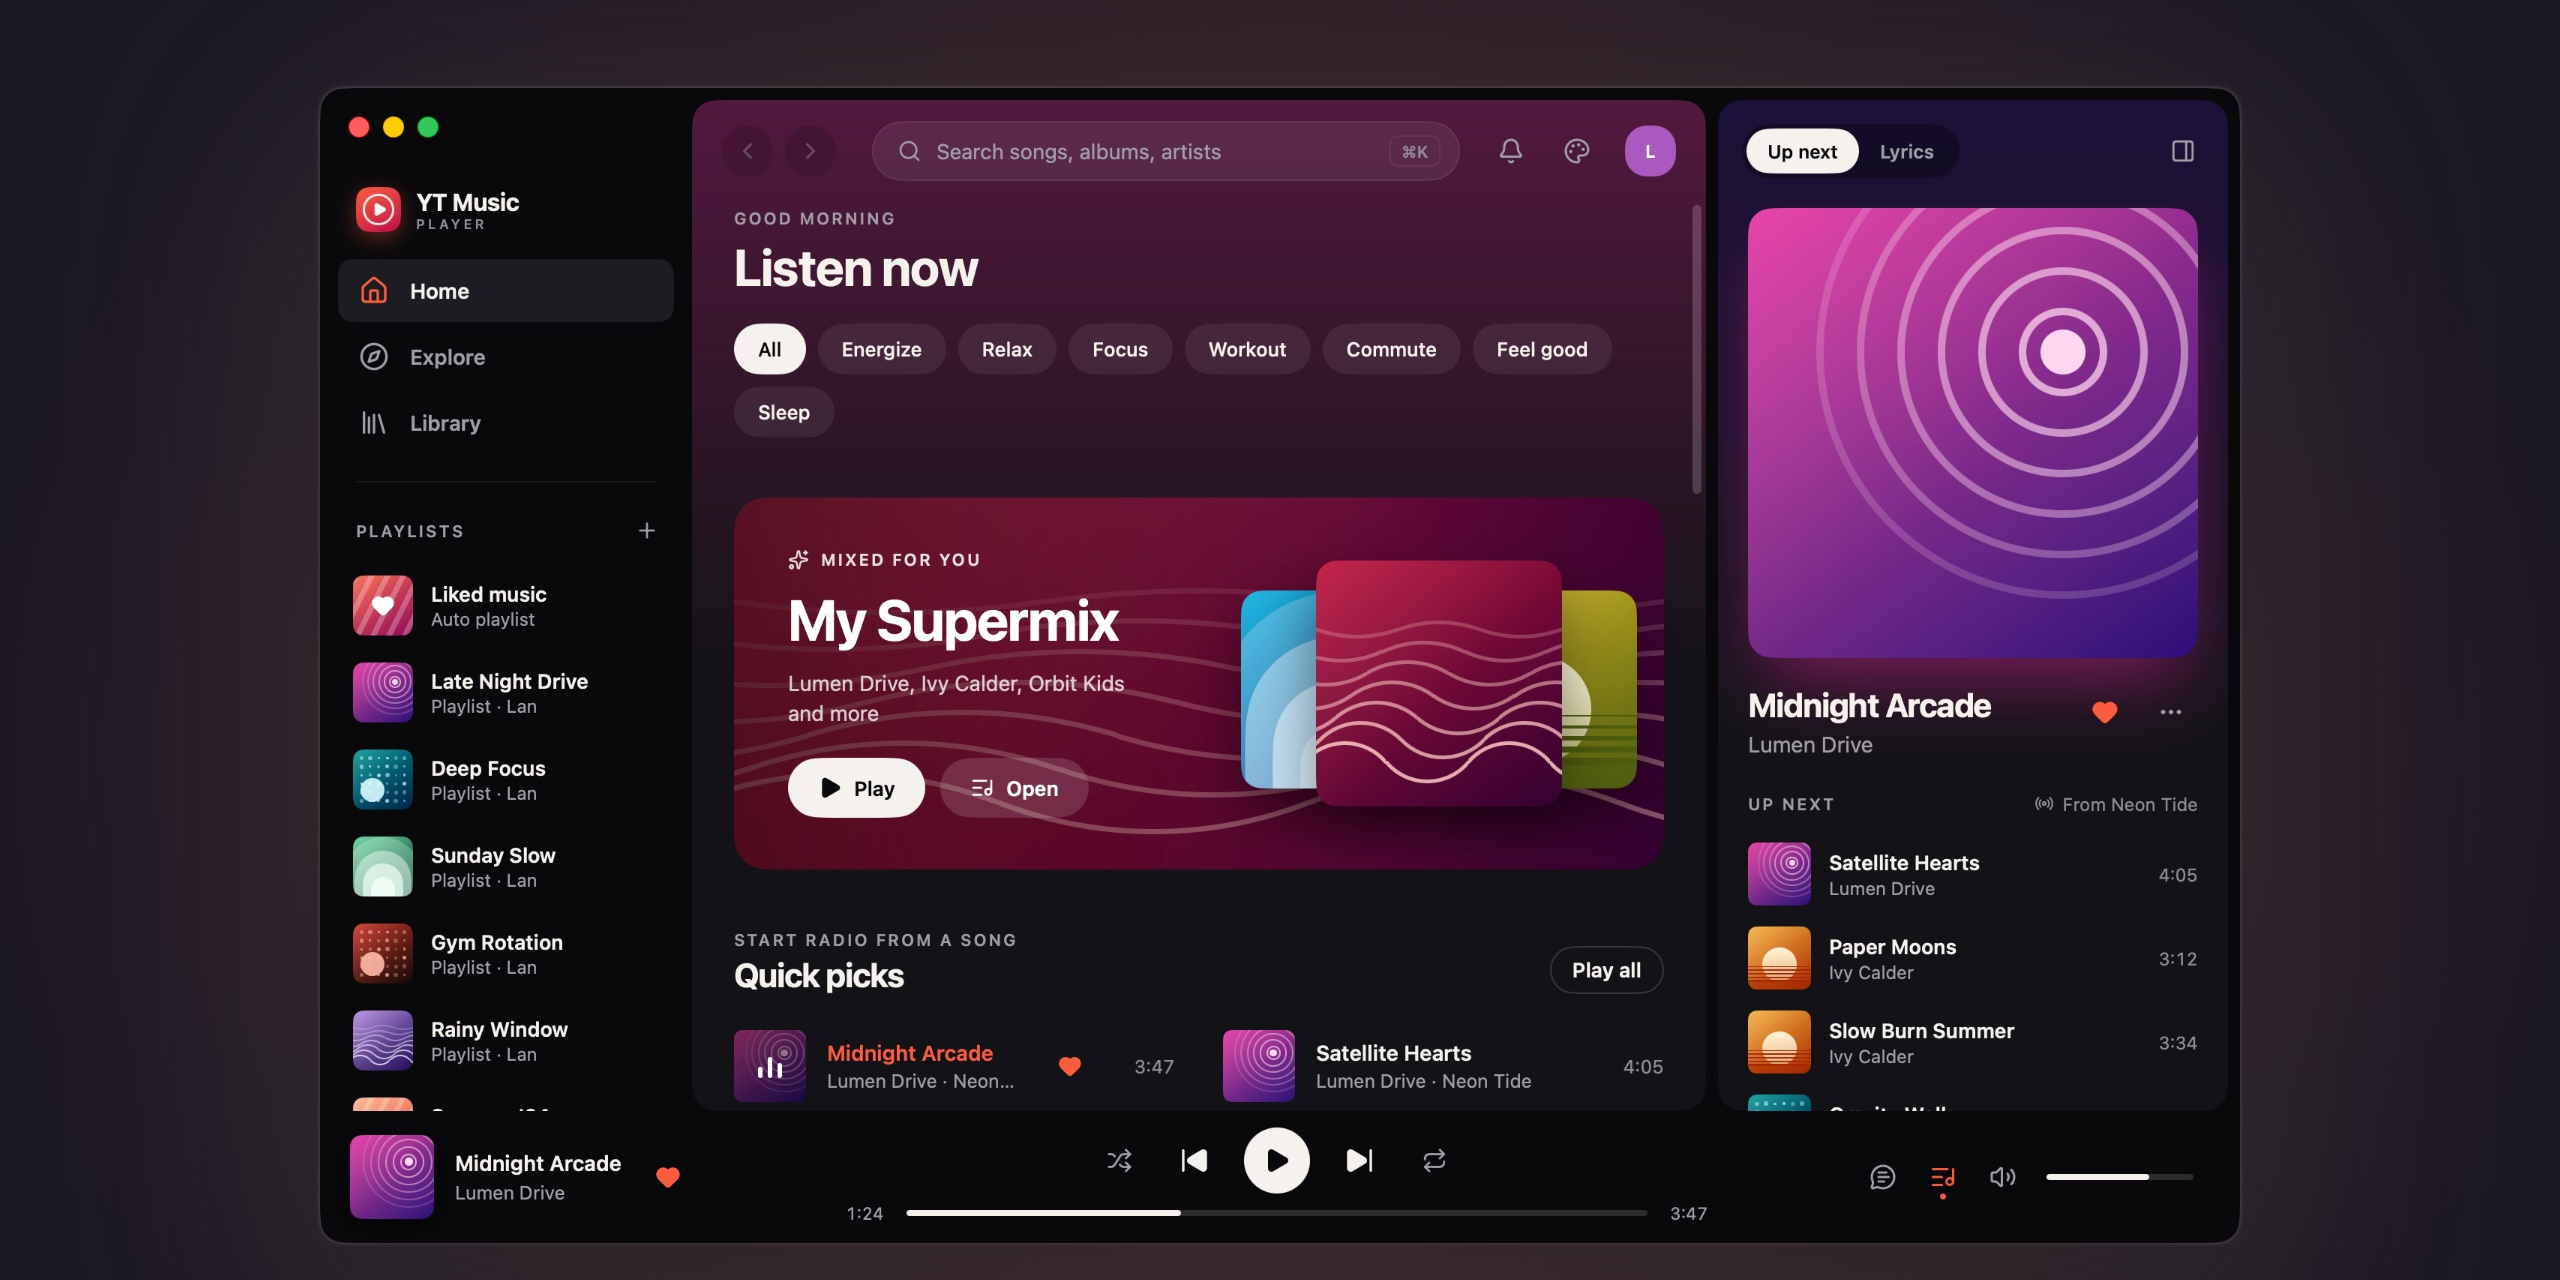
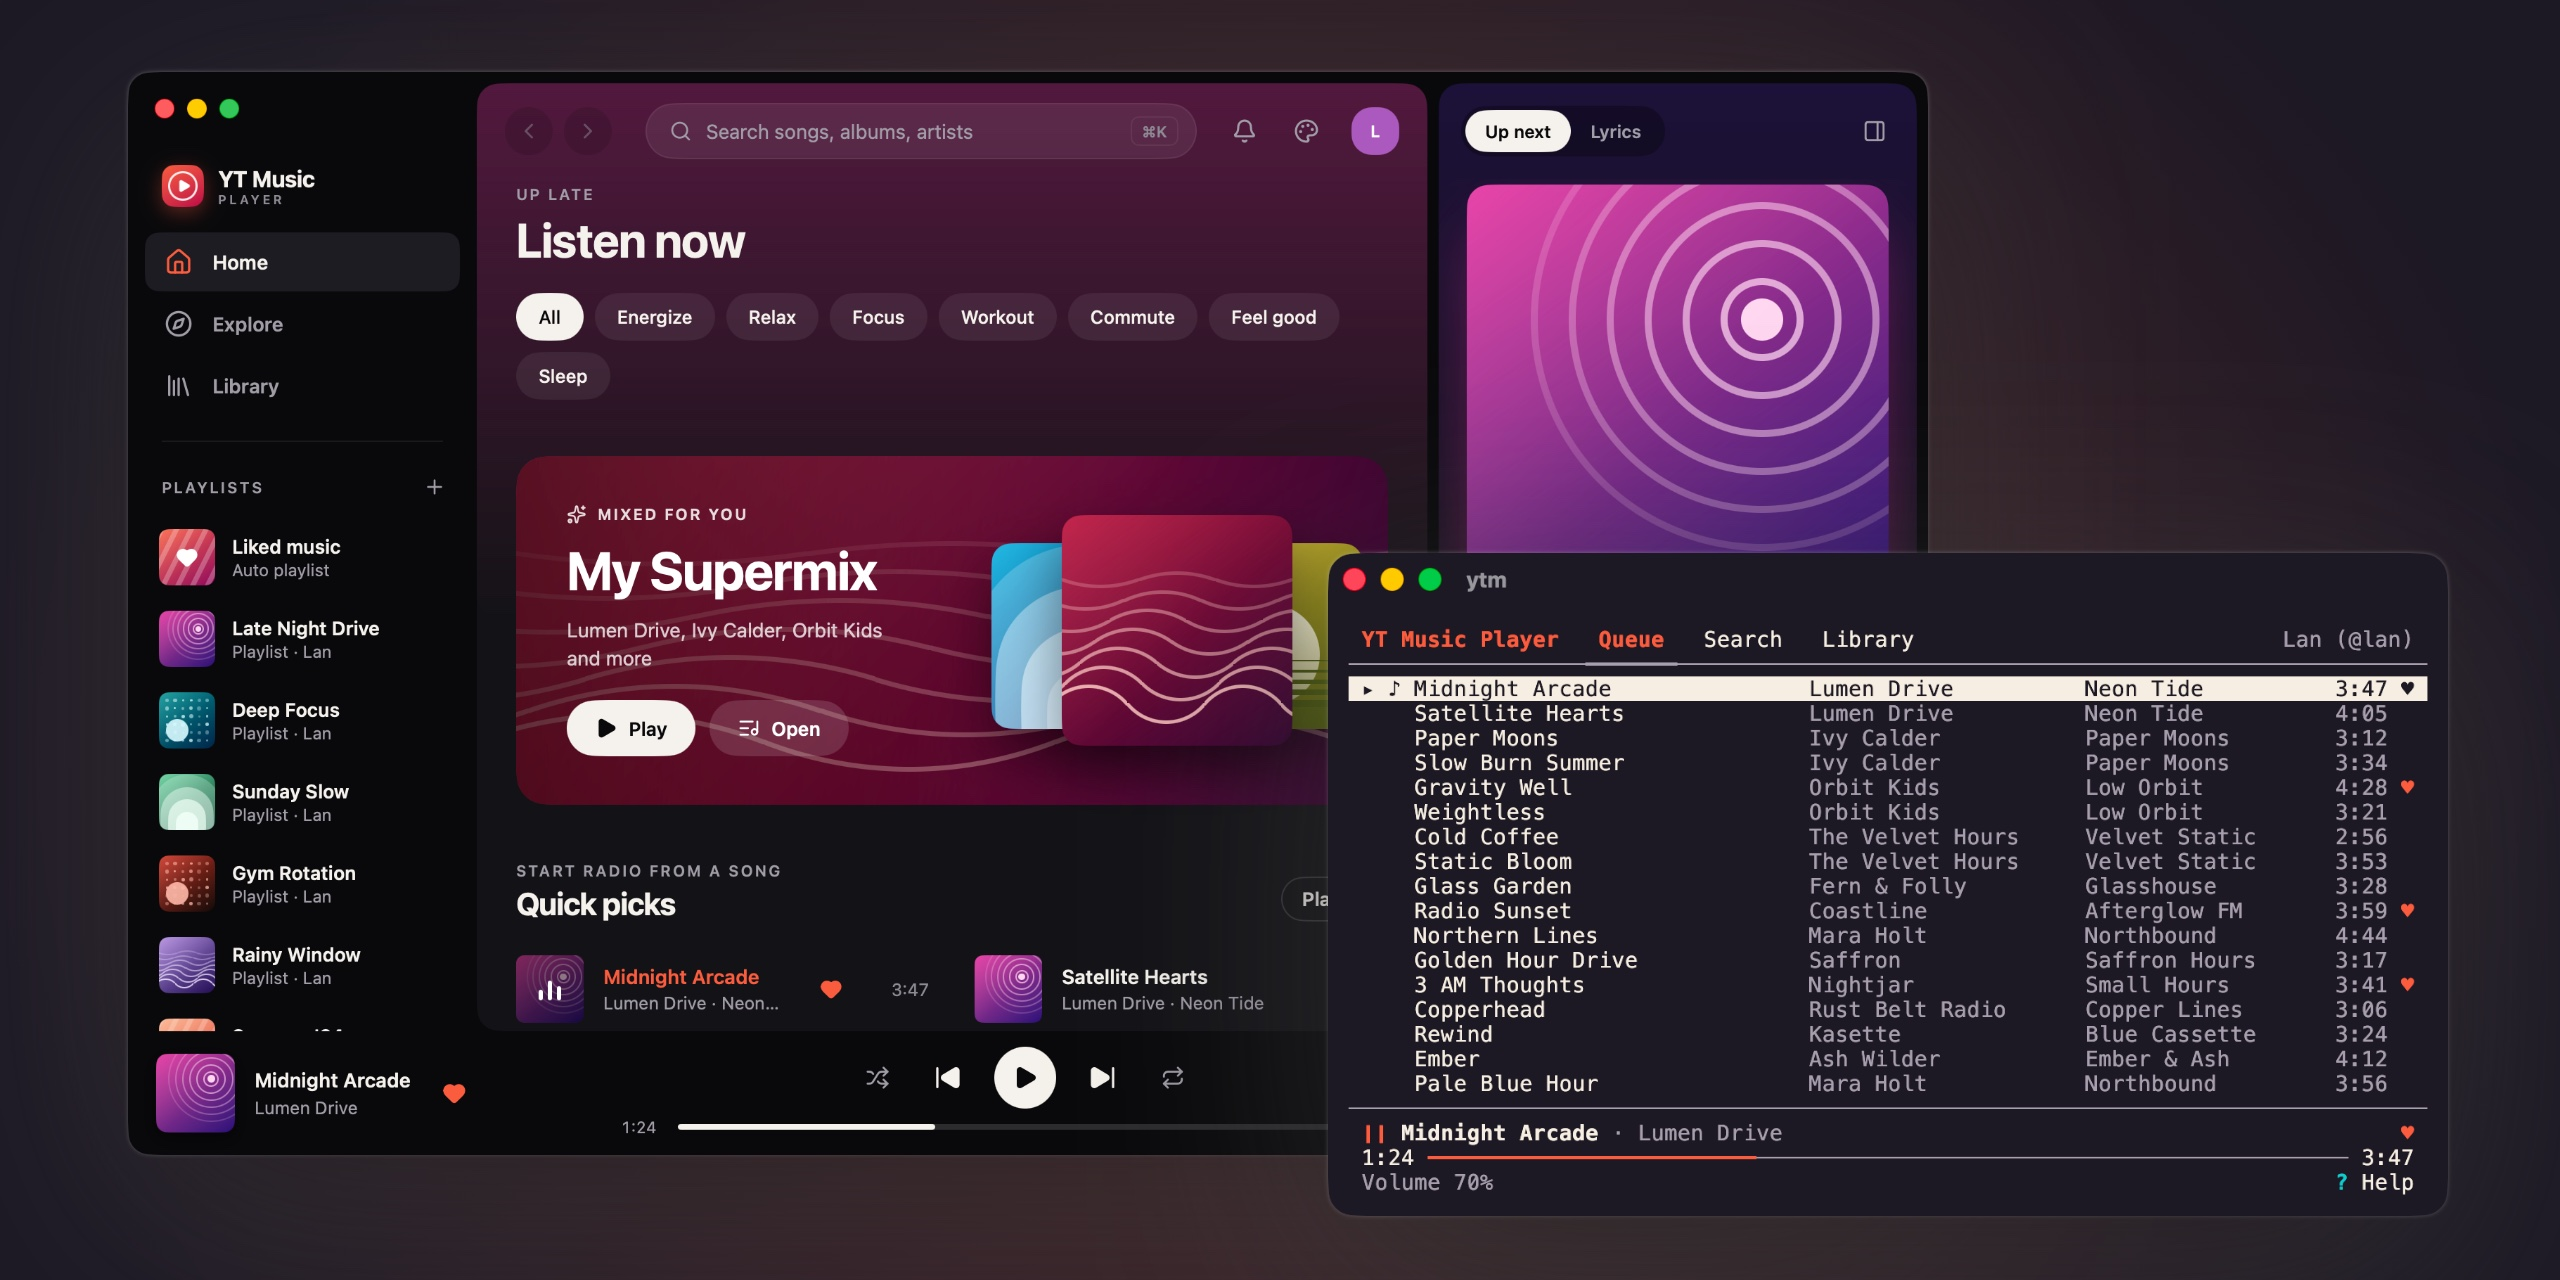
docs(readme): show ytm in a terminal beside the window
The README's top image and the social preview now show ytm in a
terminal over the window's right side, playing the same song and queue
over the same placeholder ytmd. scripts/repo-images.sh captures it in
kitty, set up by assets/repo-images/kitty.conf in the icon's dark
colors, or takes a shot of one's own with -terminal.

Both captures bring their window to the front and leave out attached
windows (screencapture -a), so macOS's Caps Lock badge by a terminal's
cursor stays out of the shot. Background launches go through launch,
whose $! is the app's own pid: backgrounding isolated gave a subshell's,
which owned no window and outlived the kill.

diff --git a/assets/repo-images/readme-hero.html b/assets/repo-images/readme-hero.html
@@ -1,6 +1,7 @@
 <!doctype html>
-<!-- README's top image (1280×640): only the window, no text (the README's
-     title says it). ?theme=dark renders the one for GitHub's dark mode. -->
+<!-- README's top image (1280×640): the window and ytm in a terminal over
+     its right side, no text (the README's title says it). ?theme=dark
+     renders the one for GitHub's dark mode. -->
 <html lang="en">
 <head>
 <meta charset="utf-8">
@@ -13,11 +14,14 @@
 <style>
   html, body { width: 1280px; height: 640px; }
   .glow { left: 50%; top: 50%; width: 1300px; height: 1100px; transform: translate(-50%, -45%); }
-  .app-window { left: 50%; top: 44px; width: 960px; transform: translateX(-50%); }
+  .app-window { left: 64px; top: 36px; width: 900px; }
+  /* Over the window's queue, which it shows too. */
+  .app-terminal { right: 56px; bottom: 32px; width: 560px; }
 </style>
 </head>
 <body>
   <div class="glow"></div>
   <img class="app-window" src="app-window.png" alt="">
+  <img class="app-terminal" src="app-terminal.png" alt="">
 </body>
 </html>

diff --git a/assets/repo-images/social-preview.html b/assets/repo-images/social-preview.html
@@ -1,6 +1,6 @@
 <!doctype html>
-<!-- GitHub's social preview (the link card, 1280×640): a headline and the
-     window. Uploaded in the repository's settings, never committed. -->
+<!-- GitHub's social preview (the link card, 1280×640): a headline, the
+     window and ytm in a terminal. Uploaded in the repository's settings, never committed. -->
 <html lang="en">
 <head>
 <meta charset="utf-8">
@@ -22,6 +22,7 @@
   /* Wider than what is left: the window runs off the right edge, the
      sidebar and the home page in view. */
   .app-window { left: 660px; top: 92px; width: 860px; }
+  .app-terminal { left: 720px; bottom: 36px; width: 460px; }
   .repo-url { position: absolute; left: 88px; bottom: 40px; font-size: 16px; color: var(--faint);
     font-weight: 500; letter-spacing: .3px; }
 </style>
@@ -39,6 +40,7 @@
     </ul>
   </div>
   <img class="app-window" src="app-window.png" alt="">
+  <img class="app-terminal" src="app-terminal.png" alt="">
   <div class="repo-url">github.com/xlanstar/yt-music-player</div>
 </body>
 </html>

diff --git a/assets/repo-images/base.css b/assets/repo-images/base.css
@@ -1,4 +1,4 @@
-/* Shared by the repo images: the icon's colors, type and the window's
+/* Shared by the repo images: the icon's colors, type and the windows'
    shadow. scripts/repo-images.sh copies it beside the pages it renders. */
 :root {
   --bg: #f6eee2;
@@ -27,4 +27,4 @@ body {
   -webkit-font-smoothing: antialiased;
 }
 .glow { position: absolute; background: radial-gradient(closest-side, var(--glow), transparent); }
-.app-window { position: absolute; filter: var(--window-shadow); }
+.app-window, .app-terminal { position: absolute; filter: var(--window-shadow); }

diff --git a/AGENTS.md b/AGENTS.md
@@ -14,7 +14,7 @@ MyGo docs: https://mygo.egoist.dev/docs.md (always read the `.md` pages, never `
 - Live checks (never in CI): `go test -run Record -update -v ./internal/ytmusic/` (re-records `testdata/`, `Record/catalog` or `Record/feeds` for one half; `YTM_COOKIE=…` with `Record/library` for signed-in, writes nothing); `go test ./internal/stream/ -run Live -live -v`; `go test -tags audiolive -run Live -v ./internal/audio/` and `go test -tags audiolive -run LiveDaemon -v ./internal/daemon/` (play sound); `scripts/footprint.sh -daemon` (below); `TestMPRIS` runs where there is a session bus (`dbus-run-session -- go test -run MPRIS ./internal/audio/`); `YTM_KEYCHAIN_TEST=1` for the Keychain.
 - `locales/`: the messages, `en.json` (the source, with descriptions) and `zh-Hant.json`, in ICU MessageFormat; `go tool mygo generate .` writes `locales/catalog_gen.go` (committed) from them, which `prek` checks.
 - `scripts/render-app-icon.sh`: renders the icon's one source, `assets/icon/icon.svg`, into `resources/icon.png` and `assets/icon/` (PNGs of every size, `.icns`, `.ico`); edit the SVG, never the renders.
-- `scripts/repo-images.sh [-readme]`: renders the social preview (uploaded in the repository's settings, not committed) and README's top image from `assets/repo-images/` and a capture of the placeholder build; `-readme` updates `docs/images/`. Run it with `-readme` when the window's look changes.
+- `scripts/repo-images.sh [-readme]`: renders the social preview (uploaded in the repository's settings, not committed) and README's top image from `assets/repo-images/` and captures of the placeholder build and its `ytm` in kitty; `-readme` updates `docs/images/`. Run it with `-readme` when the window's look changes.
 - Release: `scripts/release.sh patch|minor|major`, then, after checking the draft, approve the Release workflow's `publish` job, which publishes it and updates the Homebrew tap (`docs/release.md`); the version lives only in `mygo.json`, user-visible changes go under `## [Unreleased]` in `CHANGELOG.md` in the same change. The cask is `packaging/homebrew/yt-music-player.rb`; never edit it in the tap.
 - Build the app only with `scripts/build.sh [mygo build flags]`, never a bare `go tool mygo build`, which ships old ytmd and ytm or none. To use a build on macOS: `scripts/install.sh [-universal]` installs it through the release's cask from a local Homebrew tap.
 - Performance: `docs/performance.md`; benchmarks and budgets: `docs/benchmarks.md`; memory and frames of the real window: `scripts/footprint.sh` (macOS, about 70 seconds); `-daemon`: ytmd's memory and wake-ups (a paused ytmd must wake nothing). Each compares with its committed `perf/*-baseline.txt`; a run writes `perf/*-latest.txt` (gitignored).

diff --git a/README.md b/README.md
@@ -2,7 +2,7 @@
 
 <picture>
   <source media="(prefers-color-scheme: dark)" srcset="docs/images/readme-hero-dark.jpg">
-  <img src="docs/images/readme-hero-light.jpg" alt="YT Music Player's home page, a song playing and its queue beside it">
+  <img src="docs/images/readme-hero-light.jpg" alt="YT Music Player's home page, and ytm in a terminal beside it showing the same song and queue">
 </picture>
 
 A lightweight YouTube Music desktop player for macOS, Linux and Windows. Native, GPU-drawn UI in Go with [MyGo](https://mygo.egoist.dev): no webview, no Electron, about 60 MB of memory, no frames drawn when idle.
